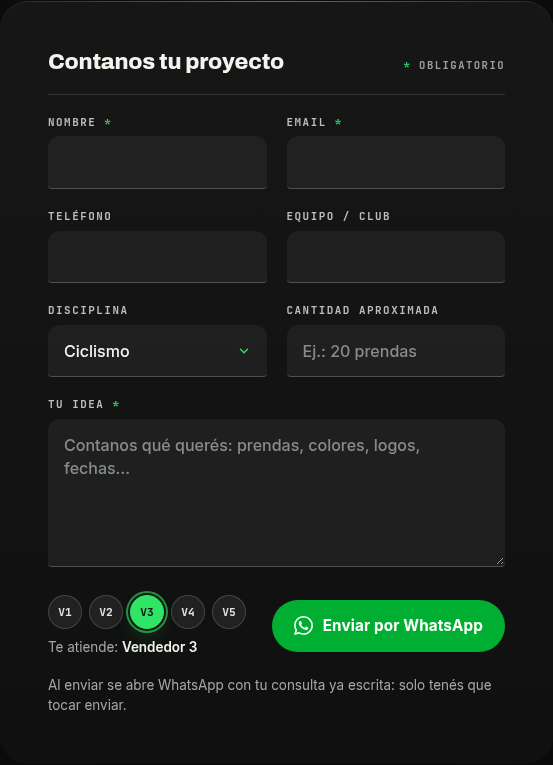
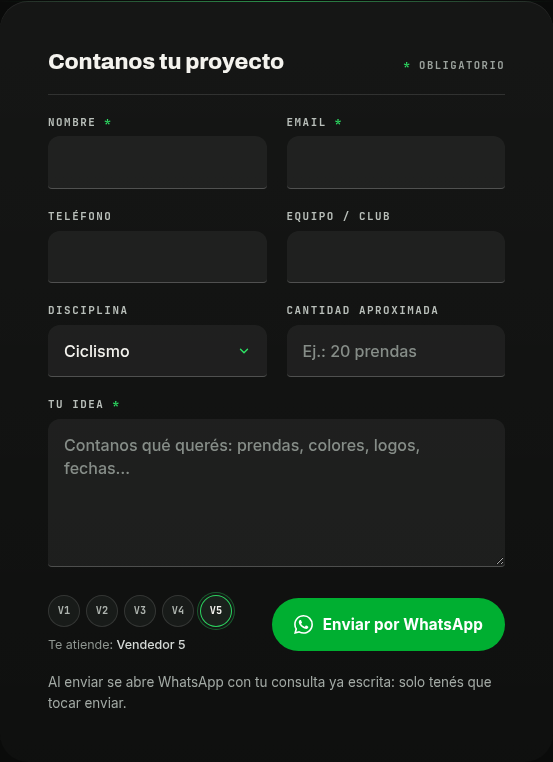
Contacto: avatares de vendedores más sutiles (32px, apagados, solo anillo verde en el asignado)

diff --git a/assets/css/styles.css b/assets/css/styles.css
@@ -351,25 +351,23 @@ section{position:relative}
 .form-send:active{transform:translateY(0) scale(.98);box-shadow:0 6px 16px -10px rgba(0,175,49,.8)}
 .form-send:focus-visible{outline:3px solid var(--green-hi);outline-offset:3px;border-radius:999px}
 .form .note{font-size:.84rem;line-height:1.55;color:#a3aaa5;margin:-4px 0 0}
-/* Vendedores: avatares junto al botón; el asignado lleva el anillo verde */
-.sellers{display:grid;gap:6px;min-width:0}
-.sellers-row{display:flex;gap:7px;padding:4px;margin:-4px 0 0 -4px}
-.sellers-row .seller:hover,.sellers-row .seller:focus-visible{z-index:3}
-.sellers-row .seller[aria-pressed="true"]{z-index:2}
-.seller{position:relative;width:34px;height:34px;flex:0 0 34px;border-radius:50%;display:grid;place-items:center;padding:0;cursor:pointer;
-  font:700 .7rem/1 var(--mono);letter-spacing:0;color:#e2e6e2;background:rgba(255,255,255,.07);border:1px solid rgba(255,255,255,.16);
-  transition:background-color .25s,border-color .25s,color .25s,box-shadow .25s,transform .25s var(--ease)}
-.seller:hover{background:rgba(255,255,255,.12);border-color:rgba(255,255,255,.34);color:var(--paper);transform:translateY(-1px)}
-.seller[aria-pressed="true"]{color:var(--ink);background:var(--green-hi);border-color:var(--green-hi);box-shadow:0 0 0 2px #151816,0 0 0 4px rgba(46,229,102,.6),0 10px 22px -10px rgba(46,229,102,.7)}
-.seller:focus-visible{outline:2px solid var(--paper);outline-offset:4px;border-radius:50%}
-.seller::after{content:attr(data-name);position:absolute;left:50%;bottom:calc(100% + 10px);transform:translate(-50%,4px);white-space:nowrap;pointer-events:none;
-  font:600 .72rem/1 var(--body);letter-spacing:0;color:var(--paper);background:#202422;border:1px solid rgba(255,255,255,.12);padding:7px 10px;border-radius:8px;opacity:0;transition:opacity .2s,transform .2s;z-index:2}
-.seller:hover::after,.seller:focus-visible::after{opacity:1;transform:translate(-50%,0)}
-.seller-now{margin:0;font-size:.84rem;line-height:1.3;color:#a3aaa5}
-.seller-now b{color:var(--paper);font-weight:600}
-.seller-rol{display:block;margin-top:6px;font:600 .62rem/1 var(--mono);letter-spacing:.14em;text-transform:uppercase;color:var(--green-hi)}
+/* Vendedores: avatares chicos y sobrios junto al botón; solo el asignado lleva el anillo verde */
+.sellers{display:grid;gap:7px;min-width:0}
+.sellers-row{display:flex;gap:6px;padding:3px;margin:-3px 0 0 -3px}
+.seller{position:relative;width:32px;height:32px;flex:0 0 32px;border-radius:50%;display:grid;place-items:center;padding:0;cursor:pointer;
+  font:600 .64rem/1 var(--mono);letter-spacing:.02em;color:#aeb4af;background:#181b19;border:1px solid rgba(255,255,255,.12);
+  transition:border-color .25s,color .25s,box-shadow .25s,background-color .25s}
+.seller:hover{color:#e4e7e4;border-color:rgba(255,255,255,.28)}
+.seller[aria-pressed="true"]{color:var(--paper);background:#1a211c;border-color:rgba(46,229,102,.9);box-shadow:0 0 0 2px #141715,0 0 0 3px rgba(46,229,102,.35)}
+.seller:focus-visible{outline:2px solid var(--green-hi);outline-offset:3px;border-radius:50%}
+.seller::after{content:attr(data-name);position:absolute;left:50%;bottom:calc(100% + 8px);transform:translateX(-50%);white-space:nowrap;pointer-events:none;
+  font:500 .7rem/1 var(--body);color:#d9ddd9;background:#1c1f1d;border:1px solid rgba(255,255,255,.1);padding:6px 8px;border-radius:6px;opacity:0;transition:opacity .2s;z-index:2}
+.seller:hover::after,.seller:focus-visible::after{opacity:1}
+.seller-now{margin:0;font-size:.78rem;line-height:1.35;color:#8f9691}
+.seller-now b{color:#d6dad7;font-weight:500}
+.seller-rol{display:block;margin-top:3px;font:500 .6rem/1.2 var(--mono);letter-spacing:.12em;text-transform:uppercase;color:#7d847f}
 @media(max-width:599px){.form-foot{flex-direction:column;align-items:stretch}.form-send{width:100%}}
-@media (prefers-reduced-motion:reduce){.form-send:active,.seller:hover{transform:none}.seller::after{transition:none}}
+@media (prefers-reduced-motion:reduce){.form-send:active{transform:none}.seller,.seller::after{transition:none}}
 .map{margin-top:clamp(40px,6vw,80px);border-radius:var(--r-lg);overflow:hidden;border:1px solid var(--line);aspect-ratio:16/7;min-height:320px;position:relative;background:var(--ink-2)}
 .map iframe{width:100%;height:100%;border:0;filter:grayscale(1) invert(.92) contrast(.9);transition:filter .5s}
 .map:hover iframe{filter:none}

diff --git a/variantes/contacto-nombres.html b/variantes/contacto-nombres.html
@@ -21,7 +21,7 @@
 <link rel="preconnect" href="https://fonts.gstatic.com" crossorigin>
 <link href="https://fonts.googleapis.com/css2?family=Archivo:wdth,wght@62..125,400..900&family=Inter:wght@400;500;600;700&family=JetBrains+Mono:wght@700&display=swap" rel="stylesheet">
 <link rel="preload" as="image" type="image/webp" href="../assets/img/fachada-1280.webp" imagesrcset="../assets/img/fachada-640.webp 640w, ../assets/img/fachada-1280.webp 1280w, ../assets/img/fachada-1728.webp 1728w" imagesizes="(min-width:1000px) 62vw, 100vw">
-<link rel="stylesheet" href="../assets/css/styles.css?v=85b9e37ad9">
+<link rel="stylesheet" href="../assets/css/styles.css?v=d8594f0a22">
 <script type="application/ld+json">
 {"@context":"https://schema.org","@type":"ClothingStore","name":"Cozy Sport SA","description":"Indumentaria deportiva personalizada. Industria nacional desde 1983.","foundingDate":"1983","email":"info@cozysport.com","telephone":["+54 11 4723-3355","+54 11 4723-2255","+54 11 4723-3373"],"url":"https://cozysport.com/","address":{"@type":"PostalAddress","streetAddress":"Uruguay 3442","addressLocality":"Beccar","addressRegion":"Buenos Aires","postalCode":"1643","addressCountry":"AR"},"sameAs":["https://instagram.com/cozysport","https://www.facebook.com/cozysport","https://twitter.com/cozysport","https://www.youtube.com/channel/UCqqrq2bQ2Q-Dgik3gxvm1Yw","https://tiendacozy.com/"]}
 </script>

diff --git a/index.html b/index.html
@@ -21,7 +21,7 @@
 <link rel="preconnect" href="https://fonts.gstatic.com" crossorigin>
 <link href="https://fonts.googleapis.com/css2?family=Archivo:wdth,wght@62..125,400..900&family=Inter:wght@400;500;600;700&family=JetBrains+Mono:wght@700&display=swap" rel="stylesheet">
 <link rel="preload" as="image" type="image/webp" href="assets/img/fachada-1280.webp" imagesrcset="assets/img/fachada-640.webp 640w, assets/img/fachada-1280.webp 1280w, assets/img/fachada-1728.webp 1728w" imagesizes="(min-width:1000px) 62vw, 100vw">
-<link rel="stylesheet" href="assets/css/styles.css?v=85b9e37ad9">
+<link rel="stylesheet" href="assets/css/styles.css?v=d8594f0a22">
 <script type="application/ld+json">
 {"@context":"https://schema.org","@type":"ClothingStore","name":"Cozy Sport SA","description":"Indumentaria deportiva personalizada. Industria nacional desde 1983.","foundingDate":"1983","email":"info@cozysport.com","telephone":["+54 11 4723-3355","+54 11 4723-2255","+54 11 4723-3373"],"url":"https://cozysport.com/","address":{"@type":"PostalAddress","streetAddress":"Uruguay 3442","addressLocality":"Beccar","addressRegion":"Buenos Aires","postalCode":"1643","addressCountry":"AR"},"sameAs":["https://instagram.com/cozysport","https://www.facebook.com/cozysport","https://twitter.com/cozysport","https://www.youtube.com/channel/UCqqrq2bQ2Q-Dgik3gxvm1Yw","https://tiendacozy.com/"]}
 </script>

diff --git a/variantes/index.html b/variantes/index.html
@@ -11,7 +11,7 @@
 <link rel="preconnect" href="https://fonts.googleapis.com">
 <link rel="preconnect" href="https://fonts.gstatic.com" crossorigin>
 <link href="https://fonts.googleapis.com/css2?family=Archivo:wdth,wght@62..125,400..900&family=Inter:wght@400;500;600;700&family=JetBrains+Mono:wght@500;700&display=swap" rel="stylesheet">
-<link rel="stylesheet" href="../assets/css/styles.css?v=85b9e37ad9">
+<link rel="stylesheet" href="../assets/css/styles.css?v=d8594f0a22">
 <style>
 body{background:var(--ink);color:var(--paper)}
 .vx{max-width:var(--max);margin:0 auto;padding:clamp(28px,5vw,64px) var(--pad) 80px}

diff --git a/variantes/a-silueta.html b/variantes/a-silueta.html
@@ -21,7 +21,7 @@
 <link rel="preconnect" href="https://fonts.gstatic.com" crossorigin>
 <link href="https://fonts.googleapis.com/css2?family=Archivo:wdth,wght@62..125,400..900&family=Inter:wght@400;500;600;700&family=JetBrains+Mono:wght@700&display=swap" rel="stylesheet">
 
-<link rel="stylesheet" href="../assets/css/styles.css?v=85b9e37ad9">
+<link rel="stylesheet" href="../assets/css/styles.css?v=d8594f0a22">
 
 <meta name="robots" content="noindex">
 <link rel="stylesheet" href="assets/variantes.css">

diff --git a/variantes/b-ruta.html b/variantes/b-ruta.html
@@ -21,7 +21,7 @@
 <link rel="preconnect" href="https://fonts.gstatic.com" crossorigin>
 <link href="https://fonts.googleapis.com/css2?family=Archivo:wdth,wght@62..125,400..900&family=Inter:wght@400;500;600;700&family=JetBrains+Mono:wght@700&display=swap" rel="stylesheet">
 
-<link rel="stylesheet" href="../assets/css/styles.css?v=85b9e37ad9">
+<link rel="stylesheet" href="../assets/css/styles.css?v=d8594f0a22">
 
 <meta name="robots" content="noindex">
 <link rel="stylesheet" href="assets/variantes.css">

diff --git a/variantes/c-video.html b/variantes/c-video.html
@@ -21,7 +21,7 @@
 <link rel="preconnect" href="https://fonts.gstatic.com" crossorigin>
 <link href="https://fonts.googleapis.com/css2?family=Archivo:wdth,wght@62..125,400..900&family=Inter:wght@400;500;600;700&family=JetBrains+Mono:wght@700&display=swap" rel="stylesheet">
 
-<link rel="stylesheet" href="../assets/css/styles.css?v=85b9e37ad9">
+<link rel="stylesheet" href="../assets/css/styles.css?v=d8594f0a22">
 
 <meta name="robots" content="noindex">
 <link rel="stylesheet" href="assets/variantes.css">
